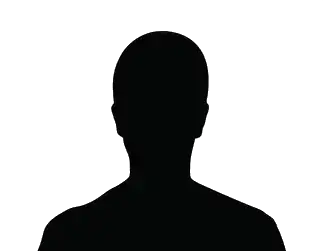
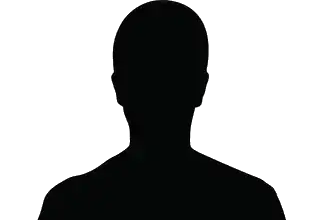
* Cleaned up team placeholder images

diff --git a/about.html b/about.html
@@ -22,6 +22,7 @@ team:
 <h1>Our Values</h1>
 <p>Lorem ipsum dolor sit amet</p>
 <h1>The Team</h1>
+<p>NB: The images below are placeholders.</p>
 <div id="team">
 	{% for member in page.team %}
 	<a href="{{ member.link }}" target="_blank">

diff --git a/_sass/about.scss b/_sass/about.scss
@@ -38,11 +38,11 @@
 	}
 
 	img {
-	  left: calc(50% - 175px);
-	  width: 350px;
-	  height: 260px;
+	  left: calc(50% - 150px);
+	  width: 300px;
+	  height: 200px;
 	  position: absolute;
-	  top: -150px;
+	  top: -80px;
 	}
   }
 }
